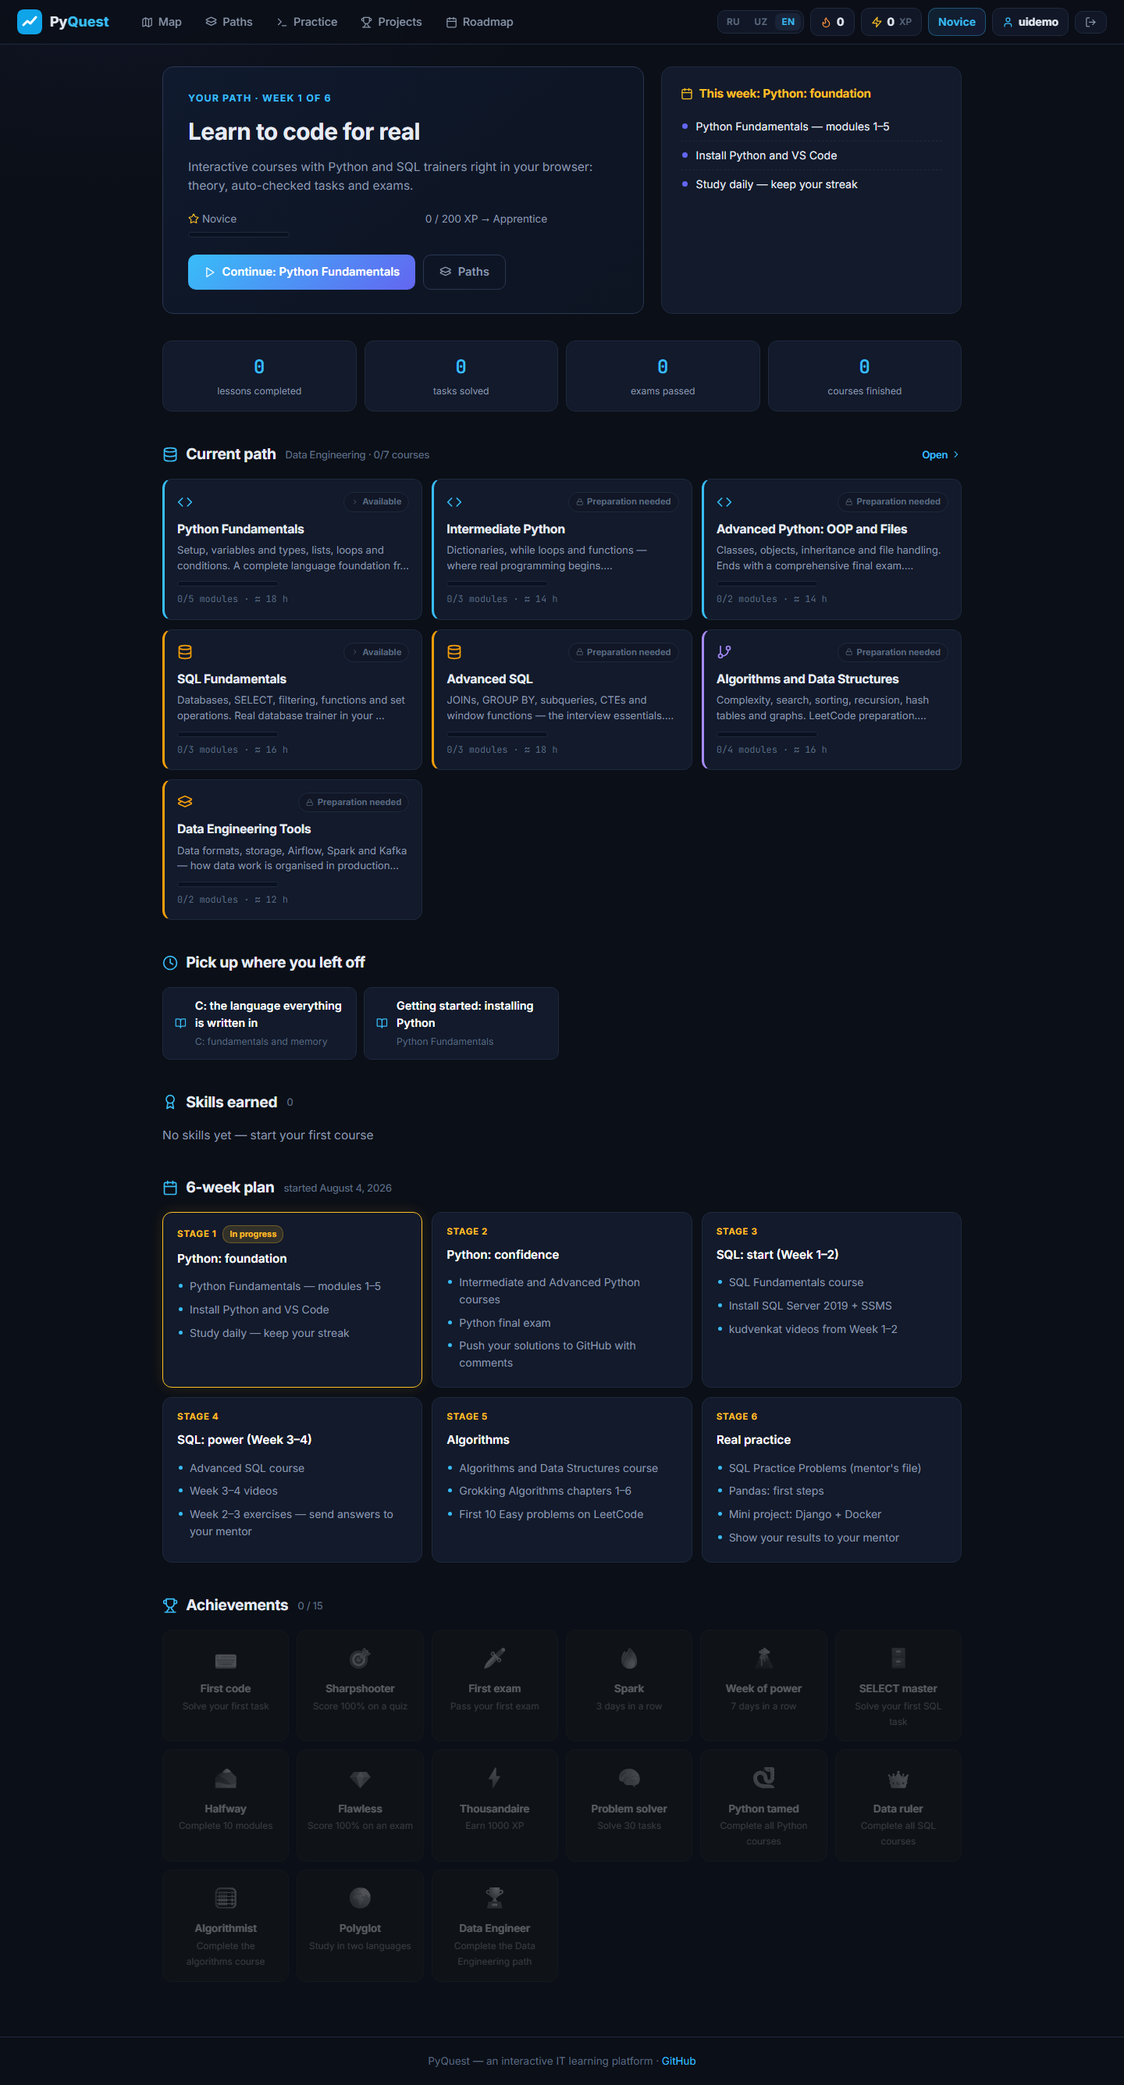
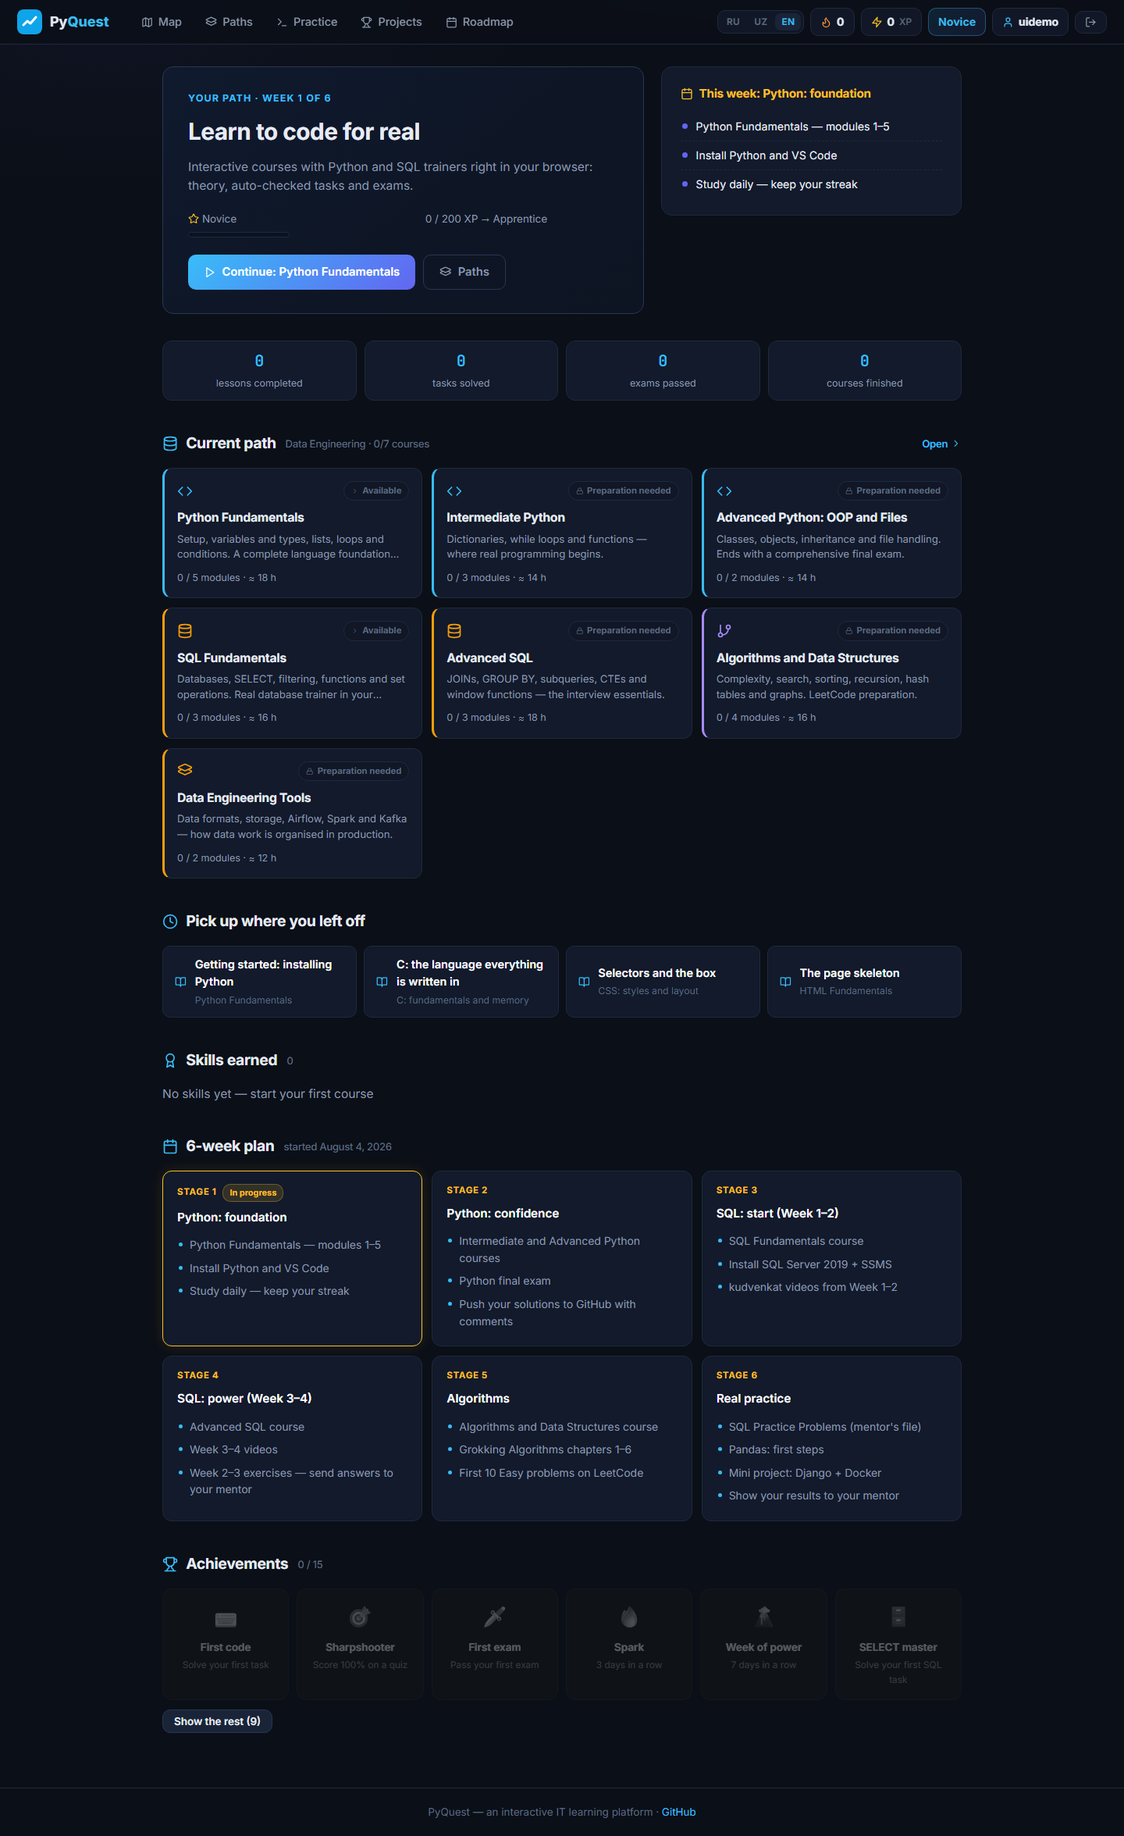
fix: дизайн — иерархия, склонения и честные пререквизиты
Смотрел на сайт снимками из настоящего браузера, а не на глаз.

Каталог. Девять направлений «в разработке» занимали столько же места,
сколько семь работающих, — теперь это одна спокойная строка внизу, а
рабочие направления идут первыми. Глазу стало ясно, куда идти.

Склонения. Везде было «1 модулей» и «1 modules»: слово бралось одной
формой. Добавлен plural() в i18n — русский берёт три формы, английский
две, узбекскому хватает одной.

Обрывы текста. Описание на дашборде резалось slice(0, 90) — посреди
слова, а иногда и посреди HTML-сущности, оставляя мусор вроде «&am».
Теперь обрезает CSS по строкам.

Нулевые полосы прогресса читались как случайные чёрточки под каждой
карточкой — показываем только когда есть что показывать.

Достижения. Пятнадцать одинаковых серых карточек внизу дашборда были
шумом: остаются полученные и ближайшие, остальные по кнопке. Атрибуту
hidden пришлось помочь — display: grid перебивал его, и «свернуть»
ничего не сворачивало.

Пререквизиты. C, C# и Java требовали Python — связь была искусственной:
человек, который хочет начать с Java, упирался в «нужна подготовка» без
причины. Убрано; C++ по-прежнему растёт из C, CSS из HTML, Tailwind из
CSS. Курсов, доступных сразу, стало восемь вместо четырёх.

Мелочи: мета-строки перестали быть моноширинными (читались как код),
плитки статистики компактнее, панель недели не растягивается пустотой,
подпись раздела на мобильном переносится под заголовок.
[…]

diff --git a/js/screens/catalog.js b/js/screens/catalog.js
@@ -1,5 +1,5 @@
 /** catalog.js — каталог направлений и страница направления (визуальный роадмап пути). */
-import { t, tr } from '../core/i18n.js';
+import { t, tr, plural } from '../core/i18n.js';
 import { esc, ic, progressBar, statusBadge } from '../ui.js';
 import { getCatalog, domain, courseMeta, careerPath, pathCourses, domainsUsingCourse } from '../core/content.js';
 import { state, persist } from '../core/state.js';
@@ -18,14 +18,19 @@ export function renderCatalog(root) {
       '<span class="dc-status">' + esc(statusLabel(d.status)) + '</span>' +
       '<h3>' + esc(tr(d.title)) + '</h3>' +
       '<p>' + esc(tr(d.tagline)) + '</p>' +
-      (pp && pp.total ? progressBar(pp.pct) + '<span class="dc-meta">' + pp.done + '/' + pp.total + ' ' + esc(t('domain.courses')) + '</span>' : '') +
+      (pp && pp.total ? progressBar(pp.pct) + '<span class="dc-meta">' + pp.done + ' / ' + esc(plural(pp.total, 'domain.courses')) + '</span>' : '') +
       '</a>';
   };
 
-  const ordered = cat.domains.slice().sort((a, b) => {
-    const rankOf = x => x.status === 'full' ? 0 : x.status === 'starter' ? 1 : 2;
-    return rankOf(a) - rankOf(b);
-  });
+  /* Направления без контента — компактной строкой отдельно. Раньше девять
+     «в разработке» занимали столько же места, сколько семь работающих,
+     и глаз не понимал, куда идти. */
+  const ready = cat.domains.filter(d => d.status !== 'planned')
+    .sort((a, b) => (a.status === 'full' ? 0 : 1) - (b.status === 'full' ? 0 : 1));
+  const planned = cat.domains.filter(d => d.status === 'planned');
+
+  const plannedChip = (d) => '<a class="domain-chip" href="#/domain/' + d.id + '" style="--tc:' + esc(d.color) + '">' +
+    ic(d.glyph) + '<span>' + esc(tr(d.title)) + '</span></a>';
 
   const courseCard = (c) => {
     const cs = courseStatus(c.id);
@@ -34,15 +39,21 @@ export function renderCatalog(root) {
       '<div class="cc-head"><span class="cc-glyph">' + ic(c.glyph) + '</span>' + statusBadge(cs.status) + '</div>' +
       '<h4>' + esc(tr(c.title)) + '</h4>' +
       '<p>' + esc(tr(c.description)) + '</p>' +
-      progressBar(p.pct) +
-      '<span class="cc-meta">' + esc(t('course.level.' + c.level)) + ' · ' + c.moduleCount + ' ' + esc(t('course.modules')) +
+      /* Полоса прогресса только когда есть чем гордиться: нулевая линия под
+         каждой карточкой читалась как случайная чёрточка */
+      (p.pct > 0 ? progressBar(p.pct) : '') +
+      '<span class="cc-meta">' + esc(t('course.level.' + c.level)) + ' · ' + esc(plural(c.moduleCount, 'course.modules')) +
       ' · ' + esc(t('domain.hours', { n: c.estimatedHours })) + '</span></a>';
   };
 
   root.innerHTML =
     '<div class="page-head"><h1>' + ic('layers') + ' ' + esc(t('catalog.title')) + '</h1>' +
     '<p>' + esc(t('catalog.subtitle')) + '</p></div>' +
-    '<div class="domain-grid">' + ordered.map(domainCard).join('') + '</div>' +
+    '<div class="domain-grid">' + ready.map(domainCard).join('') + '</div>' +
+    (planned.length
+      ? '<div class="planned-row"><span class="planned-label">' + ic('clock') + ' ' + esc(t('catalog.plannedTitle')) + '</span>' +
+        '<div class="planned-chips">' + planned.map(plannedChip).join('') + '</div></div>'
+      : '') +
     '<h2 class="section-title">' + ic('book') + ' ' + esc(t('catalog.allCourses')) +
     ' <small>' + esc(t('catalog.coursesSubtitle')) + '</small></h2>' +
     '<div class="course-grid">' + cat.courses.map(courseCard).join('') + '</div>';
@@ -70,8 +81,8 @@ export function renderDomain(root, domainId) {
         return '<a class="rm-node ' + cs.status + '" href="#/course/' + c.id + '" style="--tc:' + esc(c.color) + '">' +
           '<span class="rmn-glyph">' + ic(c.glyph) + '</span>' +
           '<span class="rmn-body"><b>' + esc(tr(c.title)) + '</b>' +
-          '<span class="rmn-meta">' + esc(t('course.level.' + c.level)) + ' · ' + c.moduleCount + ' ' + esc(t('course.modules')) + ' · ' + esc(t('domain.hours', { n: c.estimatedHours })) + '</span>' +
-          progressBar(p.pct) +
+          '<span class="rmn-meta">' + esc(t('course.level.' + c.level)) + ' · ' + esc(plural(c.moduleCount, 'course.modules')) + ' · ' + esc(t('domain.hours', { n: c.estimatedHours })) + '</span>' +
+          (p.pct > 0 ? progressBar(p.pct) : '') +
           (cs.status === STATUS.LOCKED && missing ? '<span class="rmn-locked">' + ic('lock') + ' ' + esc(t('course.lockedHint', { list: missing })) + '</span>' : '') +
           '</span>' + statusBadge(cs.status) + '</a>';
       }).join('');

diff --git a/css/style.css b/css/style.css
@@ -613,7 +613,7 @@ pre.code code { background: none; padding: 0; color: var(--text); font-size: 1em
 }
 .domain-card h3 { font-size: 1.03rem; margin-bottom: 5px; }
 .domain-card p { color: var(--muted); font-size: .84rem; margin-bottom: 10px; }
-.dc-meta { display: block; margin-top: 6px; font-size: .75rem; color: var(--faint); font-family: var(--mono); }
+.dc-meta { display: block; margin-top: 6px; font-size: .78rem; color: var(--muted); }
 
 /* ===== Карточки курсов ===== */
 .course-grid { display: grid; grid-template-columns: repeat(auto-fill, minmax(268px, 1fr)); gap: 12px; }
@@ -629,7 +629,7 @@ pre.code code { background: none; padding: 0; color: var(--text); font-size: 1em
 .cc-glyph .ic { width: 20px; height: 20px; }
 .course-card h4 { font-size: .98rem; margin-bottom: 5px; }
 .course-card p { color: var(--muted); font-size: .82rem; margin-bottom: 10px; line-height: 1.5; }
-.cc-meta { display: block; margin-top: 7px; font-size: .74rem; color: var(--faint); font-family: var(--mono); }
+.cc-meta { display: block; margin-top: 7px; font-size: .78rem; color: var(--muted); }
 
 /* ===== Статус-бейджи (цвет + текст) ===== */
 .status-badge {
@@ -732,7 +732,9 @@ pre.code code { background: none; padding: 0; color: var(--text); font-size: 1em
 .stat-row { display: grid; grid-template-columns: repeat(4, 1fr); gap: 10px; margin-bottom: 8px; }
 .stat-tile {
   background: var(--card); border: 1px solid var(--border); border-radius: 12px;
-  padding: 14px 16px; text-align: center;
+  /* Было 14px 16px: у нового пользователя четыре крупные плитки с нулями
+     занимали целый экран и обещали больше, чем показывали */
+  padding: 10px 12px; text-align: center;
 }
 .stat-tile b { display: block; font-size: 1.5rem; font-family: var(--mono); color: var(--primary); }
 .stat-tile span { color: var(--muted); font-size: .76rem; }
@@ -1117,4 +1119,64 @@ pre.code code { background: none; padding: 0; color: var(--text); font-size: 1em
 }
 @media (max-width: 640px) {
   .web-preview { height: 220px; }
+}
+
+/* ---------- Направления в разработке ---------- */
+/* Девять пустых направлений занимали столько же места, сколько семь рабочих,
+   и глазу было не за что зацепиться. Теперь это одна спокойная строка. */
+.planned-row {
+  display: flex;
+  flex-wrap: wrap;
+  align-items: center;
+  gap: 10px 14px;
+  margin: 18px 0 6px;
+  padding: 14px 16px;
+  border: 1px dashed var(--line);
+  border-radius: var(--r);
+  background: rgba(148, 163, 184, .04);
+}
+.planned-label {
+  display: inline-flex; align-items: center; gap: 7px;
+  font-size: .82rem; font-weight: 600; color: var(--faint);
+  white-space: nowrap;
+}
+.planned-label .ic { width: 15px; height: 15px; }
+.planned-chips { display: flex; flex-wrap: wrap; gap: 8px; }
+.domain-chip {
+  display: inline-flex; align-items: center; gap: 7px;
+  padding: 6px 11px;
+  border: 1px solid var(--line);
+  border-radius: 999px;
+  font-size: .82rem;
+  color: var(--muted);
+  background: var(--panel);
+  transition: color .15s, border-color .15s;
+}
+.domain-chip .ic { width: 14px; height: 14px; color: var(--tc); opacity: .75; }
+.domain-chip:hover { color: var(--text); border-color: var(--tc); }
+
+/* Кнопка «показать остальные достижения» */
+.ach-toggle { margin-top: 12px; }
+
+/* Обрезка описания по строкам — без разрывов посреди слова */
+.clamp-2 {
+  display: -webkit-box;
+  -webkit-line-clamp: 2;
+  line-clamp: 2;
+  -webkit-box-orient: vertical;
+  overflow: hidden;
+}
+
+/* Атрибут hidden должен побеждать display: grid, иначе «свернуть» ничего не сворачивает */
+.ach-grid[hidden] { display: none; }
+
+/* Панель недели не растягивается под высоту героя: пустой низ выглядел как обрыв */
+.hero { align-items: start; }
+.stat-tile b { font-size: 1.25rem; }
+.stat-tile span { font-size: .78rem; }
+
+@media (max-width: 640px) {
+  /* Подпись раздела переносится под заголовок: рядом она сжималась в столбик слов */
+  .section-title { flex-wrap: wrap; }
+  .section-title small { flex-basis: 100%; margin-left: 0; margin-top: 4px; }
 }

diff --git a/js/screens/dashboard.js b/js/screens/dashboard.js
@@ -1,5 +1,5 @@
 /** dashboard.js — персональный дашборд: что делать прямо сейчас, прогресс, диагностика. */
-import { t, tr, formatDate } from '../core/i18n.js';
+import { t, tr, formatDate, plural } from '../core/i18n.js';
 import { esc, ic, progressBar, statusBadge } from '../ui.js';
 import { getCatalog, courseMeta, domain, pathCourses } from '../core/content.js';
 import { state } from '../core/state.js';
@@ -52,21 +52,32 @@ export function renderDashboard(root) {
         '<div class="cc-head"><span class="cc-glyph">' + ic(meta.glyph || 'code') + '</span>' +
         statusBadge(cs.status) + '</div>' +
         '<h4>' + esc(tr(meta.title)) + '</h4>' +
-        '<p>' + esc(tr(meta.description)).slice(0, 90) + '…</p>' +
-        progressBar(p.pct) +
-        '<span class="cc-meta">' + p.done + '/' + p.total + ' ' + esc(t('course.modules')) + ' · ' + esc(t('domain.hours', { n: meta.estimatedHours })) + '</span>' +
+        /* Обрезает CSS по строкам: slice рубил посреди слова и мог разрезать
+           HTML-сущность пополам, превратив её в мусор вроде «&am» */
+        '<p class="clamp-2">' + esc(tr(meta.description)) + '</p>' +
+        /* Нулевая полоса читалась как случайная чёрточка под текстом */
+        (p.pct > 0 ? progressBar(p.pct) : '') +
+        '<span class="cc-meta">' + p.done + ' / ' + esc(plural(p.total, 'course.modules')) + ' · ' + esc(t('domain.hours', { n: meta.estimatedHours })) + '</span>' +
         '</a>';
     });
   }
 
-  /* Достижения */
-  const achHtml = cat.achievements.map(a => {
+  /* Достижения.
+     Пятнадцать одинаковых серых карточек внизу дашборда были просто шумом.
+     Показываем полученные и ближайшие три, остальные — по кнопке. */
+  const achCard = (a) => {
     const un = (S.ach || []).includes(a.id);
     return '<div class="ach ' + (un ? 'unlocked' : 'locked') + '" title="' + esc(tr(a.desc)) + '">' +
       '<span class="ico" aria-hidden="true">' + a.icon + '</span>' +
       '<b>' + esc(tr(a.title)) + '</b><span class="desc">' + esc(tr(a.desc)) + '</span>' +
       '<span class="sr-only">' + (un ? t('status.completed') : t('status.locked')) + '</span></div>';
-  }).join('');
+  };
+  const earned = cat.achievements.filter(a => (S.ach || []).includes(a.id));
+  const rest = cat.achievements.filter(a => !(S.ach || []).includes(a.id));
+  const shown = earned.concat(rest.slice(0, Math.max(3, 6 - earned.length)));
+  const hidden = rest.slice(shown.length - earned.length);
+  const achHtml = shown.map(achCard).join('') ;
+  const achHidden = hidden.map(achCard).join('');
 
   /* План недели ментора */
   const planHtml = cat.mentorPlan.weeks.map(p => {
@@ -156,5 +167,21 @@ export function renderDashboard(root) {
     /* Достижения */
     '<h2 class="section-title">' + ic('trophy') + ' ' + esc(t('dash.achievements')) +
     ' <small>' + (S.ach || []).length + ' / ' + cat.achievements.length + '</small></h2>' +
-    '<div class="ach-grid">' + achHtml + '</div>';
+    '<div class="ach-grid">' + achHtml + '</div>' +
+    (achHidden
+      ? '<div class="ach-grid" id="ach-rest" hidden>' + achHidden + '</div>' +
+        '<button class="btn secondary small ach-toggle" id="ach-more" aria-expanded="false">' +
+        esc(t('dash.achShowAll', { n: hidden.length })) + '</button>'
+      : '');
+
+  const moreBtn = root.querySelector('#ach-more');
+  if (moreBtn) {
+    moreBtn.addEventListener('click', () => {
+      const box = root.querySelector('#ach-rest');
+      const open = box.hidden;
+      box.hidden = !open;
+      moreBtn.setAttribute('aria-expanded', String(open));
+      moreBtn.textContent = open ? t('dash.achHide') : t('dash.achShowAll', { n: hidden.length });
+    });
+  }
 }

diff --git a/js/core/i18n.js b/js/core/i18n.js
@@ -75,6 +75,30 @@ export function t(key, params) {
 }
 
 /** Мультиязычное поле контента: tr({ ru: '…', en: '…' }) */
+/**
+ * Число со словом в правильной форме: «1 модуль», «2 модуля», «5 модулей».
+ * В словаре лежат ключи <key>.one / .few / .many; русский берёт все три,
+ * английский — one и many, узбекский обходится одной формой.
+ */
+export function plural(n, key) {
+  const abs = Math.abs(n) % 100;
+  const last = abs % 10;
+  let form;
+  if (getLang() === 'ru') {
+    if (abs > 10 && abs < 20) form = 'many';
+    else if (last === 1) form = 'one';
+    else if (last >= 2 && last <= 4) form = 'few';
+    else form = 'many';
+  } else {
+    form = n === 1 ? 'one' : 'many';
+  }
+  let word = dict[key + '.' + form];
+  if (word === undefined) word = dict[key + '.many'];           // узбекский: одна форма
+  if (word === undefined) word = (loaded.ru || {})[key + '.' + form];
+  if (word === undefined) word = t(key);                        // словарь ещё не пополнен
+  return n + ' ' + word;
+}
+
 export function tr(field) {
   if (field === null || field === undefined) return '';
   if (typeof field === 'string') return field;      // старый формат — не ломаемся
